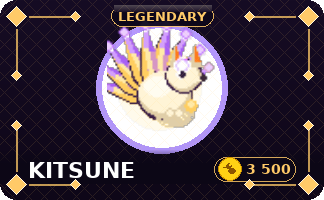
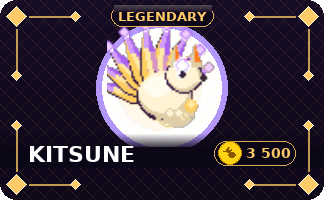
Design 5 baroque: center nameplate symmetrically between bottom ornament arm endpoints
Nameplate was flush against the bottom large pip (y=184, 0 gap).
Now centered between vertical arm small pip (y=125) and large pip (y=184):
band_y=140, INNER_BOT=168, giving ~15px gap above and ~16px gap below.

Claude-Session: https://claude.ai/code/session_01PHa7j1dH3g5BMmmcCU5mZW

diff --git a/tools/render_baroque_v5_r2.py b/tools/render_baroque_v5_r2.py
@@ -101,9 +101,11 @@ card.blit(pill_surf, (pill_x, pill_y))
 card.blit(tier_s, (pill_x + PP, pill_y + 3))
 
 # ── Nameplate: anchored to bottom corner ornaments ────────────────────────────
-INNER_BOT = H - FLOU_INSET         # = 184 (bottom corner pip center y)
+_small_pip_y = H - FLOU_INSET - (LARGE_PIP_R + 3 + ARM_LEN)  # = 125
 FOOTER_H  = 28
-band_y    = INNER_BOT - FOOTER_H   # = 156
+_pad      = (H - FLOU_INSET - _small_pip_y - FOOTER_H) // 2  # = 15
+band_y    = _small_pip_y + _pad     # = 140
+INNER_BOT = band_y + FOOTER_H      # = 168
 for i in range(14):
     a = int(i / 14 * 210)
     s = pygame.Surface((W, 1), pygame.SRCALPHA)
